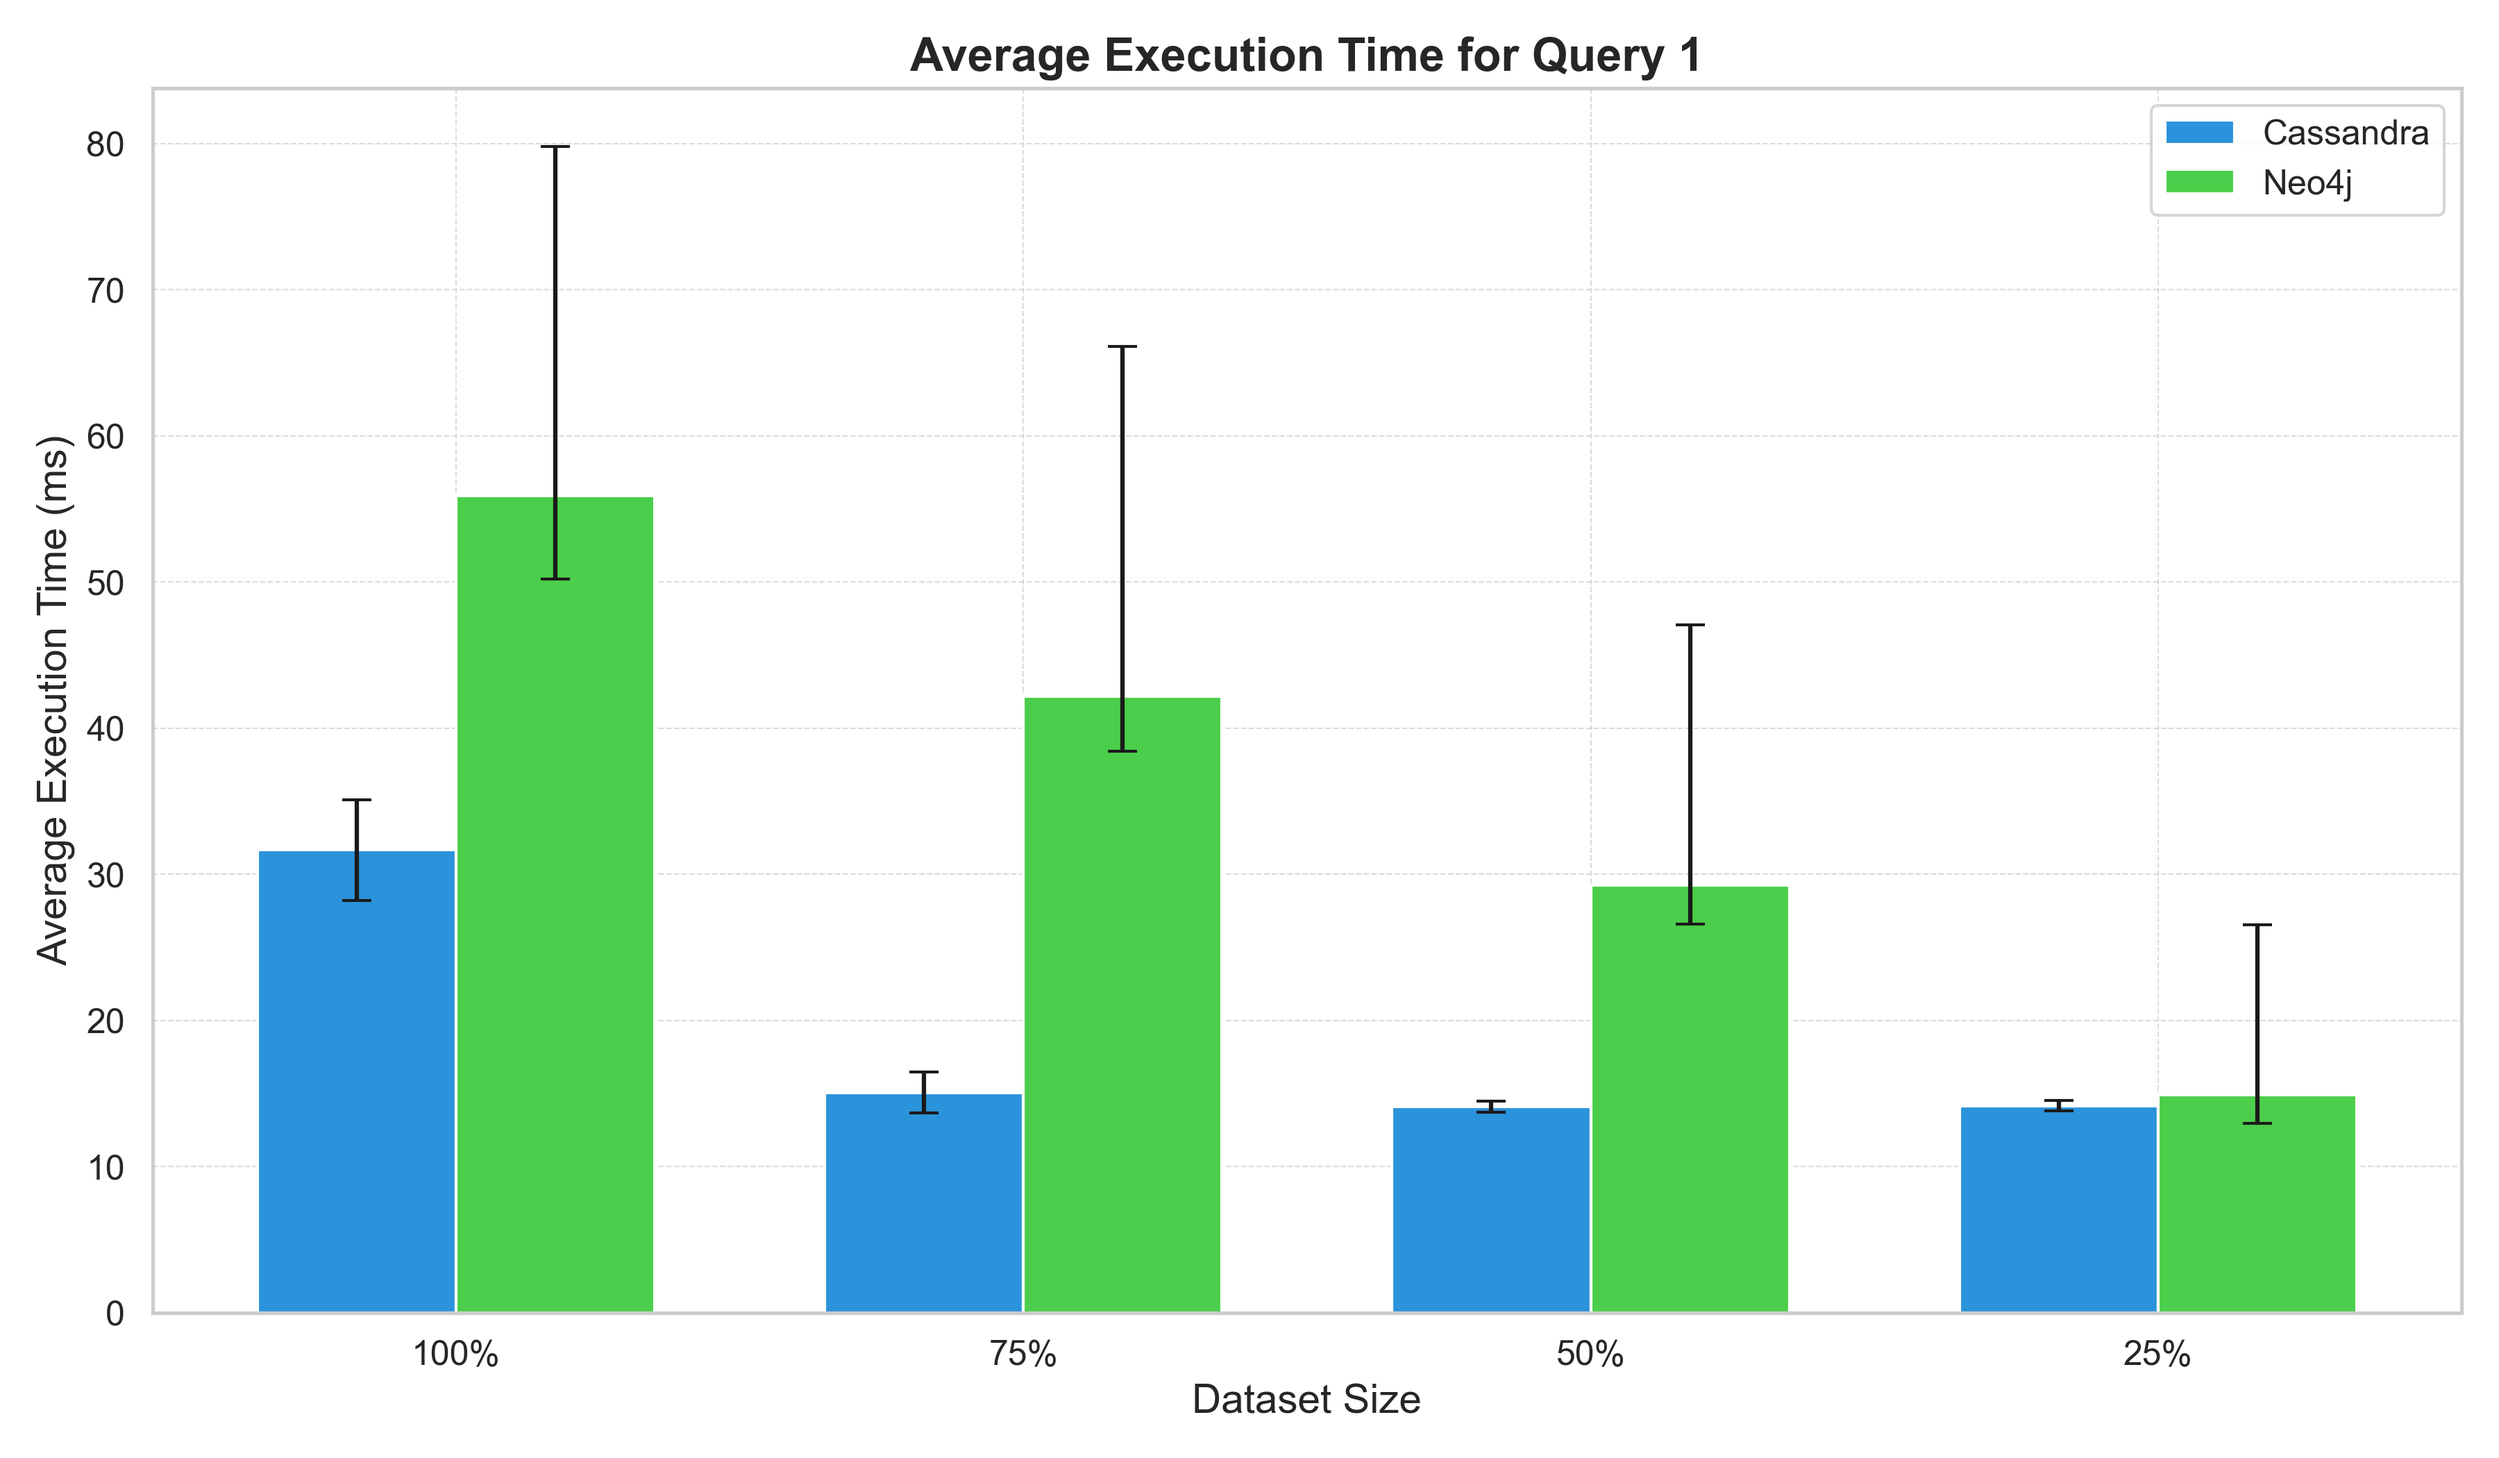
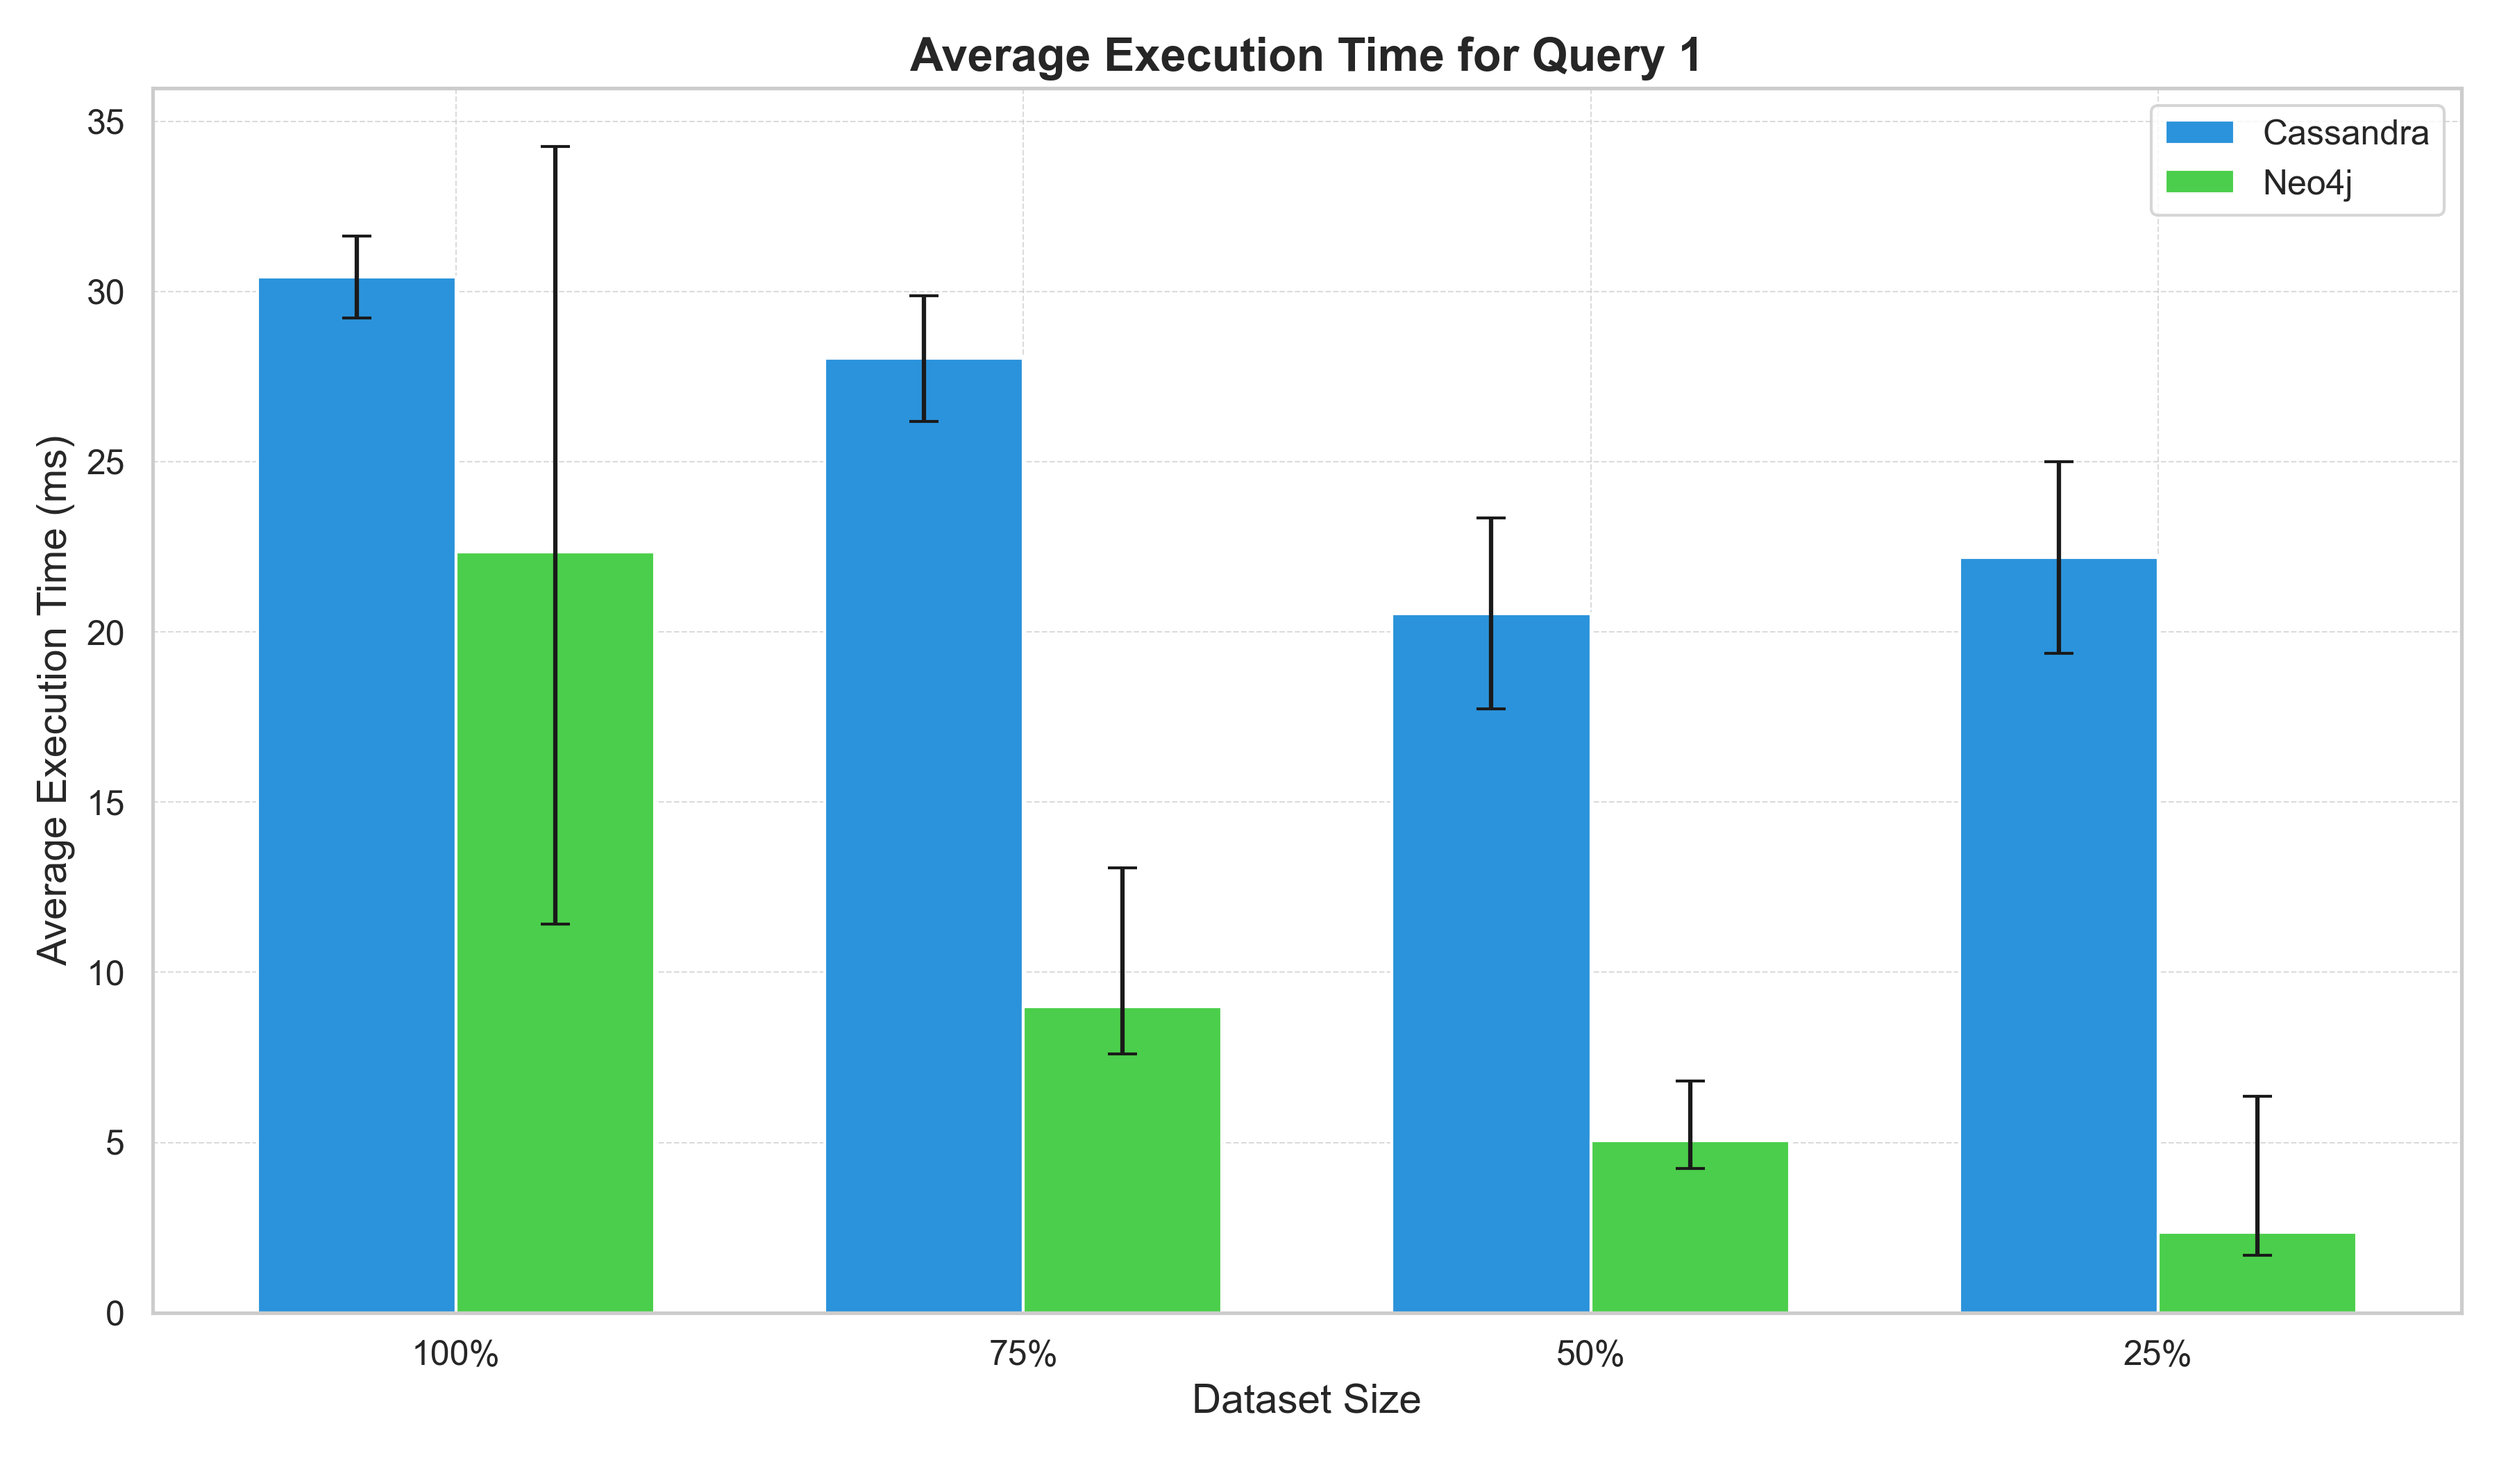
Implementazioni finali

diff --git a/Neo4j/Query[Neo4j].py b/Neo4j/Query[Neo4j].py
@@ -46,30 +46,28 @@ def process_datasets():
 
     queries = {
         'Query 1': """
-        MATCH (v:Visit)
-        RETURN v
+        MATCH (p:Patient)-[:VISIT_BY]-(v:Visit)
+        WHERE v.date >= '2021-01-01' AND v.date <= '2023-12-31'
+        WITH p, COUNT(v) AS total_visits
+        RETURN p.id AS patient_id, total_visits
         """,
         'Query 2': """ 
-        MATCH (v:Visit)-[:VISIT_TO]->(d:Doctor)
-        WHERE v.date >= '2021-01-01'
-        AND v.date <= '2023-12-31'
-        AND v.cost >= 500
-        RETURN d.id AS doctorId, v.date AS date, v.cost AS cost
+        MATCH (d:Doctor)-[:VISIT_TO]-(v:Visit)
+        WHERE v.date >= '2021-01-01' AND v.date <= '2023-12-31'
+        WITH d, d.specialization AS specialization, COUNT(v) AS total_visits
+        RETURN d.id AS doctor_id, specialization, total_visits
         """,
         'Query 3': """
-        MATCH (p:Patient)-[:VISIT_BY]-(v:Visit)-[:INCLUDES_PROCEDURE]-(pr:Procedure)
-        WHERE pr.description STARTS WITH 'C' 
-        AND v.date >= '2021-01-01'
-        RETURN p, v, pr
+        MATCH (v:Visit)-[:INCLUDES_PROCEDURE]-(proc:Procedure)
+        WHERE v.date >= '2021-01-01' AND v.date <= '2023-12-31'
+        WITH proc, proc.description AS description, COUNT(v) AS total_procedures
+        RETURN proc.id AS procedure_id, description, total_procedures
         """,
         'Query 4': """
-        MATCH (p:Patient)-[:VISIT_BY]-(v:Visit)-[:INCLUDES_PROCEDURE]-(pr:Procedure)
-        MATCH (v)-[:VISIT_TO]-(d:Doctor)
-        WHERE pr.description STARTS WITH 'P'
-        AND v.date >= '2012-01-01'
-        AND d.name STARTS WITH "J"
-        AND v.duration >= 60
-        RETURN p, v, pr,d
+        MATCH (d:Doctor)-[:VISIT_TO]-(v:Visit)-[:VISIT_BY]-(p:Patient)
+        WHERE v.date >= '2021-01-01' AND v.date <= '2023-12-31'
+        WITH d, COUNT(DISTINCT p) AS total_patients
+        RETURN d.id AS doctor_id, total_patients
         """
     }
 

diff --git a/Dataset/Dataset.py b/Dataset/Dataset.py
@@ -7,10 +7,10 @@ import os
 fake = Faker()
 
 # Definisci il numero di record da generare per ciascun tipo di entità
-NUM_PATIENTS = 1000
-NUM_DOCTORS = 200
-NUM_PROCEDURES = 50
-NUM_VISITS = 2000
+NUM_PATIENTS = 50000
+NUM_DOCTORS = 1000
+NUM_PROCEDURES = 25000
+NUM_VISITS = 150000
 
 # Crea la directory 'Dataset' se non esiste
 if not os.path.exists('Dataset'):
